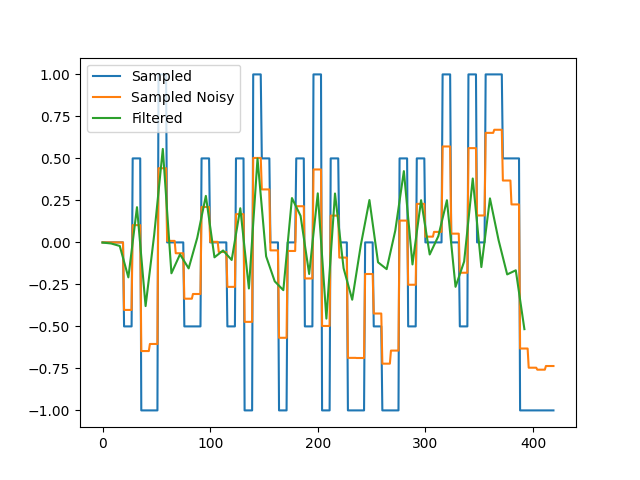
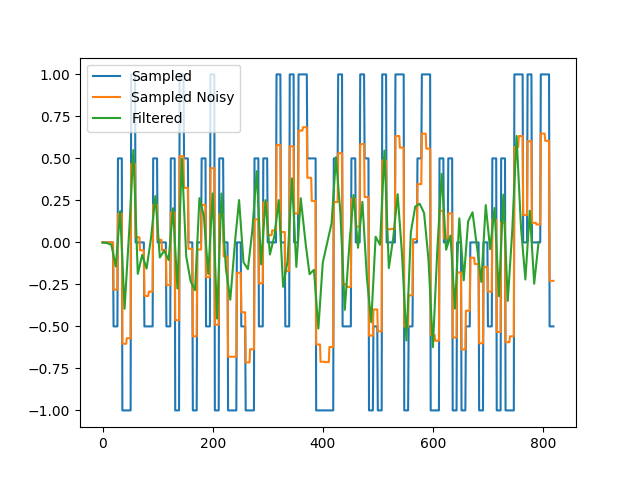
ADD: organize signal generator

diff --git a/generators/chipyard/src/main/resources/python/run_simulation.py b/generators/chipyard/src/main/resources/python/run_simulation.py
@@ -3,6 +3,7 @@ import scipy.signal as signal
 import matplotlib.pyplot as plt
 
 from fir_filter import FirFilterGenerator
+from pam5_symbol_generator import Pam5SymbolGenerator
 
 
 np.random.seed(420)
@@ -12,24 +13,28 @@ simulation_frequency = 125e6 # Hz
 sampling_frequency = 125e6 # Hz
 
 # Define target SNR in dB
-# target_snr_db = 100
-# lowpass_cutoff = 0.
-
 target_snr_db = 20
 lowpass_cutoff = 125e6 / 4  # Hz
 
 
-n_symbols = 50
+n_symbols = 100
 duration = n_symbols * (1 / sampling_frequency)
 
 print(f"Duration: {duration} s")
 
-# create symbols to send, in range {-2, -1, 0, 1, 2}
-pam5_symbols = np.random.randint(-2, 3, n_symbols, dtype=np.int8).astype(np.float32) / 2
+# === create symbols to send, in range {-2, -1, 0, 1, 2} ===
+
+pam5_symbols = Pam5SymbolGenerator.random(n_symbols)
+# pam5_symbols = Pam5SymbolGenerator.alternate_01(n_symbols)
+# pam5_symbols = Pam5SymbolGenerator.alternate_02(n_symbols)
+# pam5_symbols = Pam5SymbolGenerator.alternate_012(n_symbols)
+# pam5_symbols = Pam5SymbolGenerator.sine_wave(n_symbols)
+# pam5_symbols = Pam5SymbolGenerator.sawtooth_wave(n_symbols)
+
 print(f"Symbols: {pam5_symbols}")
 
 # convert the symbols to fill real-time clock
-pam5_signal_base = np.repeat(pam5_symbols, simulation_frequency // sampling_frequency).astype(np.float32)
+pam5_signal_base = np.repeat(pam5_symbols, simulation_frequency // sampling_frequency) / 2
 # pass through DAC (i.e. scale by 0x3F and convert to single ended)
 # pam5_signal = (pam5_signal_base + 2) * 0x3F
 pam5_signal = pam5_signal_base
@@ -41,21 +46,8 @@ pam5_signal = pam5_signal_base
 window_size = int(sampling_frequency // lowpass_cutoff)
 pam5_signal = pam5_signal # + np.convolve(pam5_signal, np.ones(window_size) / window_size, mode="valid")
 
-# # Calculate signal power
-# signal_power = np.var(pam5_signal)
-# # Calculate required noise power based on target SNR
-# noise_power = signal_power / (10 ** (target_snr_db / 10))
 
-# # Add noise to the signal
-# noise = np.random.randn(len(pam5_signal)) * np.sqrt(noise_power)
-# pam5_signal_noisy = pam5_signal + noise
-
-# # Verify actual SNR
-# actual_signal_power = np.var(pam5_signal)
-# actual_noise_power = np.var(noise)
-# actual_snr_db = 10 * np.log10(actual_signal_power / actual_noise_power)
-# print(f"Target SNR: {target_snr_db:.2f} dB")
-# print(f"Actual SNR: {actual_snr_db:.2f} dB")
+# Model channel attenuation
 cable_length = 50
 
 freq_MHz = np.array([0, 1, 4, 8, 10, 16, 20, 25, 31.25, 62.5, 100])
@@ -80,6 +72,7 @@ pam5_signal_freq_attenuated = pam5_signal_freq * attenuation_linear
 
 # Transform the attenuated signal back to the time domain
 pam5_signal_noisy = np.fft.ifft(pam5_signal_freq_attenuated).real
+
 
 
 # create time axis
@@ -129,6 +122,17 @@ taps = gen.calculate_taps(cable_length=cable_length)
 
 
 result = gen.simulate(pam5_signal_noisy)
+
+# show the attenuation before and after the filter
+input_power = np.max(np.abs(pam5_signal_noisy))
+output_power = np.max(np.abs(result))
+
+print(f"Input Power: {input_power:.2f}")
+print(f"Output Power: {output_power:.2f}")
+
+print(f"attenuation: {10 * np.log10(output_power / input_power):.2f} dB, {output_power / input_power:.2f} LSB")
+
+
 
 plt.clf()
 plt.close()

diff --git a/generators/chipyard/src/main/resources/python/pam5_symbol_generator.py b/generators/chipyard/src/main/resources/python/pam5_symbol_generator.py
@@ -1,0 +1,75 @@
+import numpy as np
+import scipy.signal as signal
+import matplotlib.pyplot as plt
+
+
+class Pam5SymbolGenerator:
+    @staticmethod
+    def random(n_symbols: int) -> np.ndarray:
+        """
+        Generate a random PAM5 symbol sequence
+        """
+        return np.random.randint(-2, 3, n_symbols, dtype=np.int8).astype(np.float32)
+
+    @staticmethod
+    def alternate_01(n_symbols: int) -> np.ndarray:
+        """
+        Generate a PAM5 symbol sequence that alternates between {-1, 0, 1, 0}
+        """
+        symbols = np.zeros(n_symbols, dtype=np.float32)
+        symbols[0::4] = -1
+        symbols[1::4] = 0
+        symbols[2::4] = 1
+        symbols[3::4] = 0
+        return symbols
+
+    @staticmethod
+    def alternate_02(n_symbols: int) -> np.ndarray:
+        """
+        Generate a PAM5 symbol sequence that alternates between {-2, 0, 2, 0}
+        """
+        symbols = np.zeros(n_symbols, dtype=np.float32)
+        symbols[0::4] = -2
+        symbols[1::4] = 0
+        symbols[2::4] = 2
+        symbols[3::4] = 0
+        return symbols
+
+    @staticmethod
+    def alternate_012(n_symbols: int) -> np.ndarray:
+        """
+        Generate a PAM5 symbol sequence that alternates between {-2, -1, 0, 1, 2, 1, 0, -1}
+        """
+        symbols = np.zeros(n_symbols, dtype=np.float32)
+        symbols[0::8] = -2
+        symbols[1::8] = -1
+        symbols[2::8] = 0
+        symbols[3::8] = 1
+        symbols[4::8] = 2
+        symbols[5::8] = 1
+        symbols[6::8] = 0
+        symbols[7::8] = -1
+        return symbols
+
+    @staticmethod
+    def sine_wave(n_symbols: int) -> np.ndarray:
+        symbols = np.zeros(n_symbols, dtype=np.float32)
+        symbols[0::8] = np.sin(0 * np.pi / 4)
+        symbols[1::8] = np.sin(1 * np.pi / 4)
+        symbols[2::8] = np.sin(2 * np.pi / 4)
+        symbols[3::8] = np.sin(3 * np.pi / 4)
+        symbols[4::8] = np.sin(4 * np.pi / 4)
+        symbols[5::8] = np.sin(5 * np.pi / 4)
+        symbols[6::8] = np.sin(6 * np.pi / 4)
+        symbols[7::8] = np.sin(7 * np.pi / 4)
+        return symbols
+    
+    @staticmethod
+    def sawtooth_wave(n_symbols: int) -> np.ndarray:
+        symbols = np.zeros(n_symbols, dtype=np.float32)
+        symbols[0::5] = -2
+        symbols[1::5] = -1
+        symbols[2::5] = 0
+        symbols[3::5] = 1
+        symbols[4::5] = 2
+        return symbols
